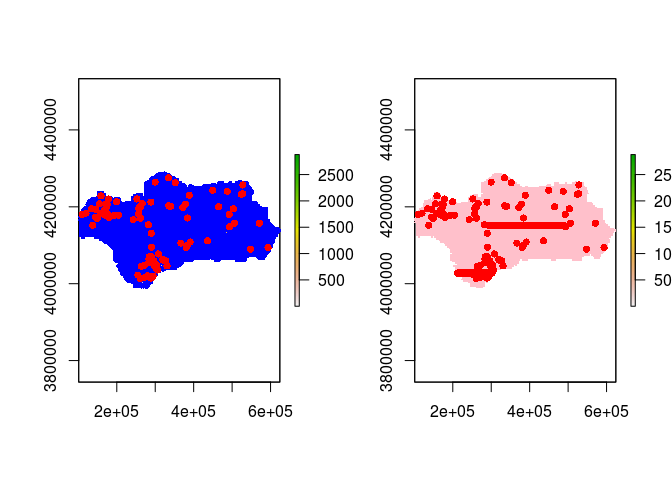
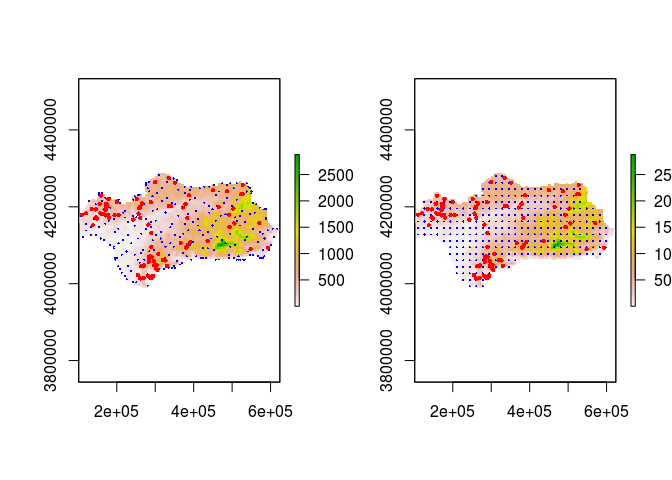
updated readme

Changed region(s): [[0.0938, 0.3438, 0.4375, 0.625], [0.5938, 0.3438, 0.9375, 0.5938]]

diff --git a/readme.md b/readme.md
@@ -60,14 +60,14 @@ For a laugh, let's generate some quasirandom background points and plot them aga
 ``` r
 library(qrbp)
 POdata <- species[species$Occurrence == 1,]
-bkpts_quasi <- generate_background_points(number_of_background_points = 10000,
+bkpts_quasi <- generate_background_points(number_of_background_points = 300,
                                     known_sites = POdata@coords,
                                     study_area = preds[[1]],
                                     model_covariates = preds,
                                     method = 'quasirandom_covariates')
 ```
 
-    ## Number of samples considered (number of samples found): 1e+05(0)
+    ## Number of samples considered (number of samples found): 3000(0)
 
     ## Finished
 
@@ -79,28 +79,25 @@ POdata <- species[species$Occurrence == 1,]
 bkpts_grid <- generate_background_points(known_sites = POdata@coords,
                                     study_area = preds[[1]],
                                     model_covariates = preds,
-                                    resolution = 2000, # this needs to be relative to raster resolution - this is about half the input resolution of the raster.
+                                    resolution = 16000, # this needs to be relative to raster resolution - this is about half the input resolution of the raster.
                                     method = 'grid')
-nrow(bkpts_grid)
 ```
 
-    ## [1] 20526
-
-Now let's plot our background points
+Now let's plot our background points. We can see on the left plot that the points look randomly distributed, these are the quasi-random background points. While the right plot is a regular grid.
 
 ``` r
 par(mfrow=c(1,2))
 plot(preds[[1]])
-points(bkpts_quasi[bkpts_quasi$presence == 0,c("x","y")],col='blue',pch=16,cex=.5)
-points(bkpts_quasi[bkpts_quasi$presence == 1,c("x","y")],col='red',pch=16,cex=1)
+points(bkpts_quasi[bkpts_quasi$presence == 0,c("x","y")],col='blue',pch=16,cex=.3)
+points(bkpts_quasi[bkpts_quasi$presence == 1,c("x","y")],col='red',pch=16,cex=.6)
 plot(preds[[1]])
-points(bkpts_grid[bkpts_grid$presence == 0,c("x","y")],col='pink',pch=16,cex=.2)
-points(bkpts_grid[bkpts_quasi$presence == 1,c("x","y")],col='red',pch=16,cex=1)
+points(bkpts_grid[bkpts_grid$presence == 0,c("x","y")],col='blue',pch=16,cex=.3)
+points(bkpts_grid[bkpts_grid$presence == 1,c("x","y")],col='red',pch=16,cex=.6)
 ```
 
 ![](readme_files/figure-markdown_github/unnamed-chunk-5-1.png)
 
-Now let's try and generate a ppm using a poisson gam
+Now let's try and generate a ppm using a poisson gam. We are going to need more integration points (background points) inorder to develop a robust Poisson Point Process model. If you look at the great Fithian & Hastie (2014) or Warton & Shepard (2010) papers they show that if you start to approach an infiniate number of integration points you should converge on the correct estimate of the intensity of occurrence (not quite correct) within the stufy region. Infinity is a big number - so how about we aim for about 20,000 background points. If are getting close the summed relative likelihood of occurrence should approximately equal the number of presence points, in this case study 94 occurrence points.
 
 ``` r
 library(mgcv)
@@ -116,6 +113,18 @@ library(mgcv)
     ##     getData
 
     ## This is mgcv 1.8-11. For overview type 'help("mgcv-package")'.
+
+``` r
+bkpts_quasi <- generate_background_points(number_of_background_points = 20000,
+                                    known_sites = POdata@coords,
+                                    study_area = preds[[1]],
+                                    model_covariates = preds,
+                                    method = 'quasirandom_covariates')
+```
+
+    ## Number of samples considered (number of samples found): 2e+05(0)
+
+    ## Finished
 
 ``` r
 fm1 <- gam(presence ~ s(elevation) +
@@ -136,6 +145,14 @@ p1_cell <- p1*(res(preds)[1]*res(preds)[2])
 par(mfrow=c(1,2))
 
 plot(p1_cell)
+POdata <- species[species$Occurrence == 1,]
+bkpts_grid <- generate_background_points(known_sites = POdata@coords,
+                                    study_area = preds[[1]],
+                                    model_covariates = preds,
+                                    resolution = 2110, # this needs to be relative to raster resolution - this is about half the input resolution of the raster.
+                                    method = 'grid')
+
+
 
 fm2 <- gam(presence ~ s(elevation) +
               s(precipitation) +
@@ -157,6 +174,20 @@ plot(p2_cell)
 
 ![](readme_files/figure-markdown_github/unnamed-chunk-6-1.png)
 
+No let's check out estimates
+
+``` r
+cellStats(p1_cell,sum)
+```
+
+    ## [1] 117.7808
+
+``` r
+cellStats(p2_cell,sum)
+```
+
+    ## [1] 94
+
 Let's compare the spatial prediction of the PPM against the PA species distribution model - hopefully we are in the right ball park
 
 ``` r
@@ -176,7 +207,7 @@ p3 <- predict(object=preds,
 plot(p3)
 ```
 
-![](readme_files/figure-markdown_github/unnamed-chunk-7-1.png)
+![](readme_files/figure-markdown_github/unnamed-chunk-8-1.png)
 
 The second function can be used to develop a bias layer which can be included as probabilities of including background points in the generation of quasirandom background points.
 
